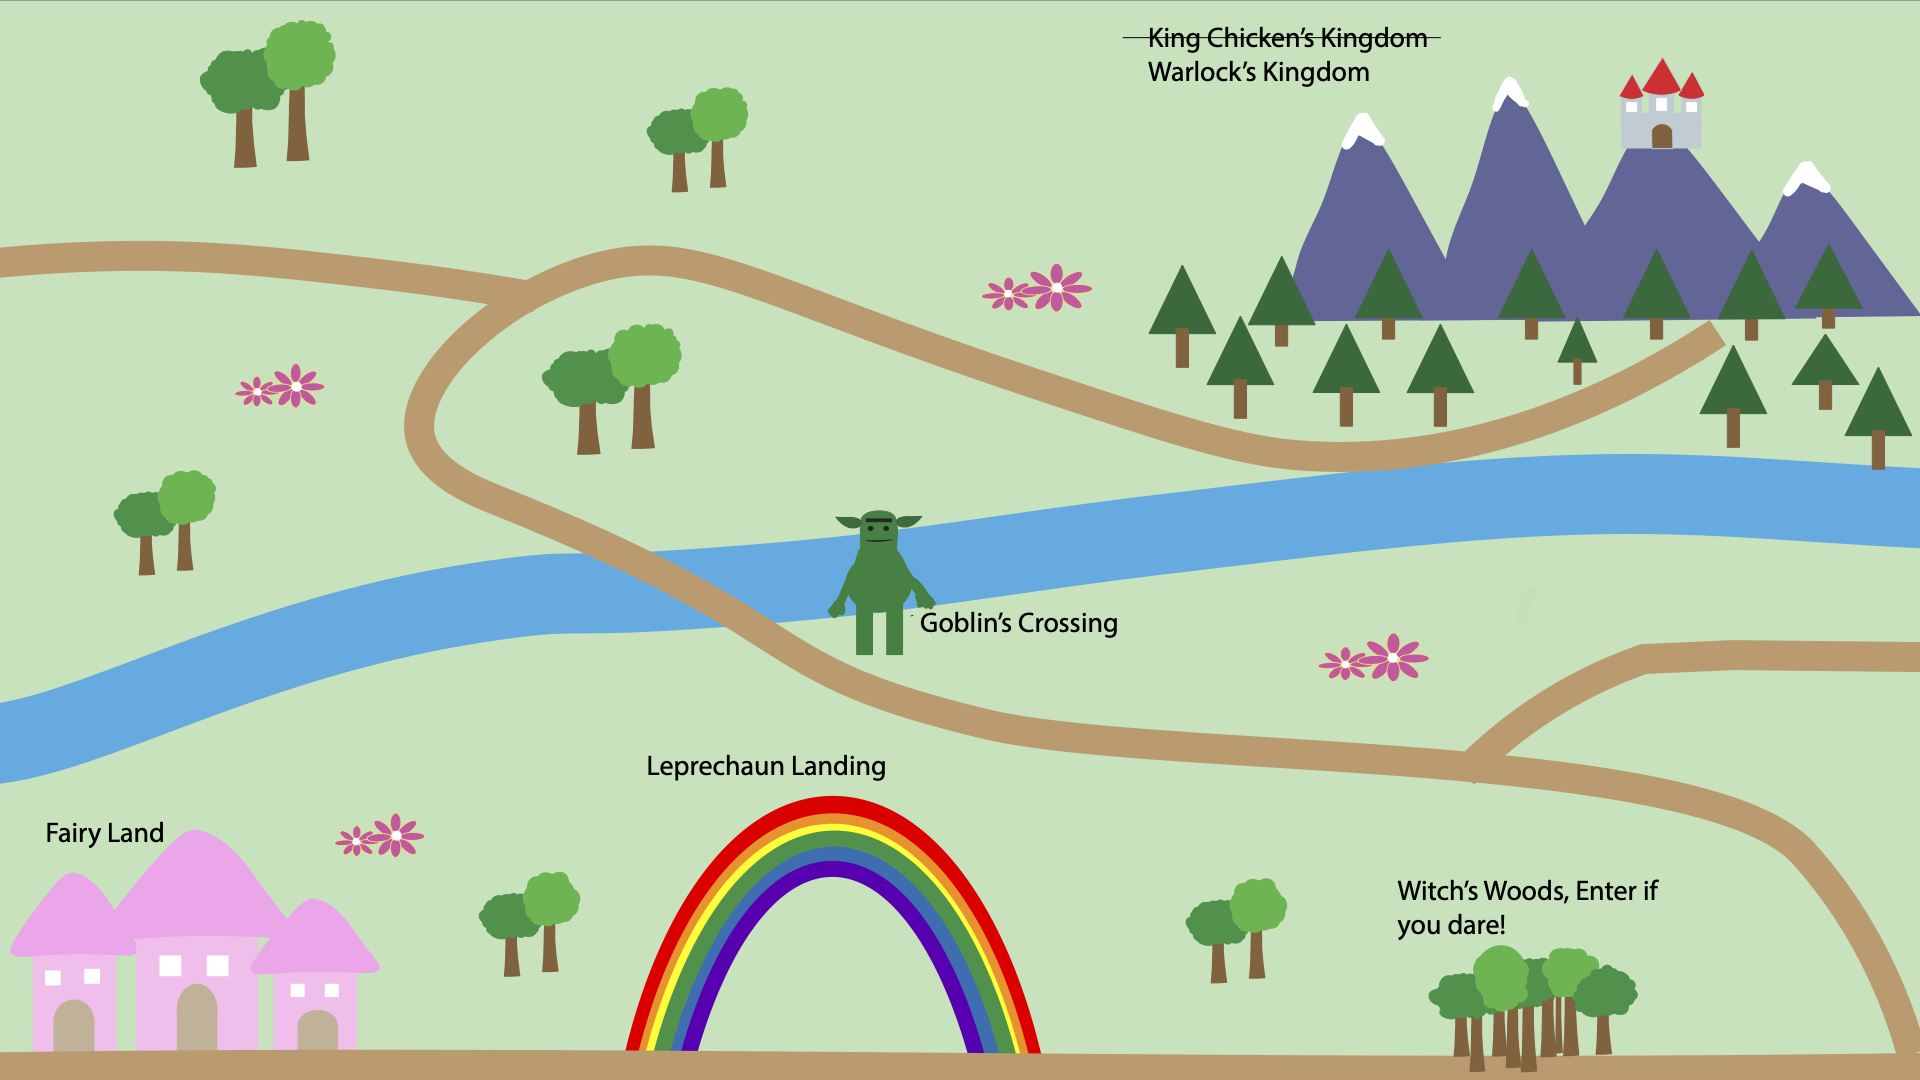
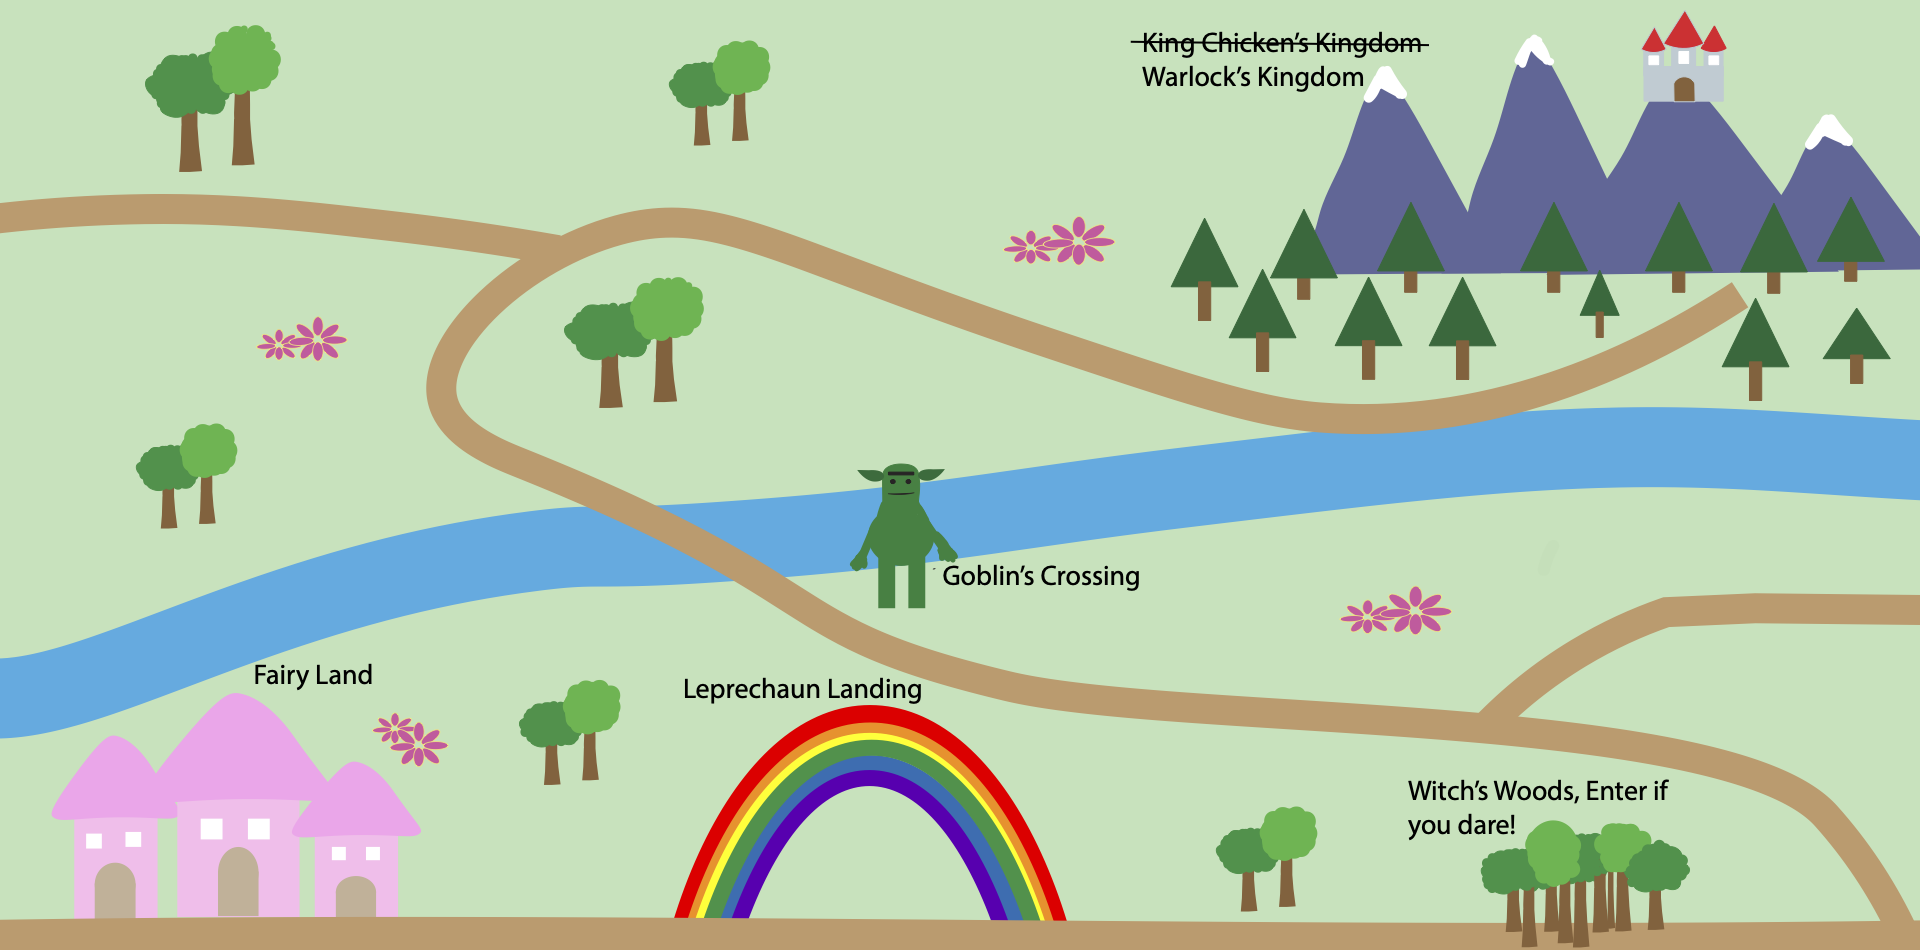
progress

Changed region(s): [[0.0, 0.0, 1.0, 1.0], [0.3438, 0.0305, 0.4062, 0.1832], [0.0625, 0.4274, 0.125, 0.5495]]

diff --git a/client/src/Signup.js b/client/src/Signup.js
@@ -20,7 +20,7 @@ function Signup({ login }) {
           username,
           password,
           passwordConfirmation,
-          picture
+          picture,
         }),
       })
         .then((r) => r.json())
@@ -67,7 +67,7 @@ function Signup({ login }) {
     
 return (
   <div className = "signup-container">
-          <button type="button" className="buttons" onClick ={() => setSignup(!signup)}>Signup</button>
+          <button type="button" className="login-signup" onClick ={() => setSignup(!signup)}>Signup</button>
           {signup ? signupBox : null}
   </div>
 )

diff --git a/client/src/index.css b/client/src/index.css
@@ -134,6 +134,14 @@ align-content: center;
 }
 
 
+.login-signup{ 
+  border-radius: 6px;
+align-content: center;
+outline: 10px;
+}
+
+
+
 
   * {
     font-family: fantasy;
@@ -224,6 +232,7 @@ justify-content: center;
     top:0%;
     right: 9.9%;
   z-index: 1 ;
+
  }
 
     .signup-container{
@@ -233,7 +242,10 @@ justify-content: center;
       z-index: 1;
     padding-left: 1%;
   padding-right: 2%;
-padding-bottom: 1%;}
+padding-bottom: 1%;
+border-radius: 2px;}
+
+
 
 
       .h-container{

diff --git a/client/src/Login.js b/client/src/Login.js
@@ -48,7 +48,7 @@ function Login ({onLogin}){
 
     return(
         <div className = "login-container">
-                <button type="button" className="buttons" onClick={() => setLogin(!login)}>Login</button>
+                <button type="button" className="login-signup" onClick={() => setLogin(!login)}>Login</button>
                 {login ? loginBox : null}
         </div>
     )

diff --git a/client/src/Map.js b/client/src/Map.js
@@ -33,8 +33,7 @@ return(
 
 <div>
 
-
-<img src = {map} className = "mapsize" alt = "image"></img>
+<img src = {map} className = "size" alt = "image"></img>
 <div className ="places">
 <h3>Places You Can Go:</h3>
 <NavLink to="/fairy">

diff --git a/db/schema.rb b/db/schema.rb
@@ -60,6 +60,7 @@ ActiveRecord::Schema.define(version: 2022_04_07_161735) do
   create_table "users", force: :cascade do |t|
     t.string "username"
     t.string "password_digest"
+    t.string "picture"
     t.datetime "created_at", precision: 6, null: false
     t.datetime "updated_at", precision: 6, null: false
   end

diff --git a/app/controllers/users_controller.rb b/app/controllers/users_controller.rb
@@ -48,7 +48,6 @@ class UsersController < ApplicationController
 
     def destroy
         user = User.find(params[:id])
-        user.dependent_match_destroy
         user.destroy
         head :no_content
     end
